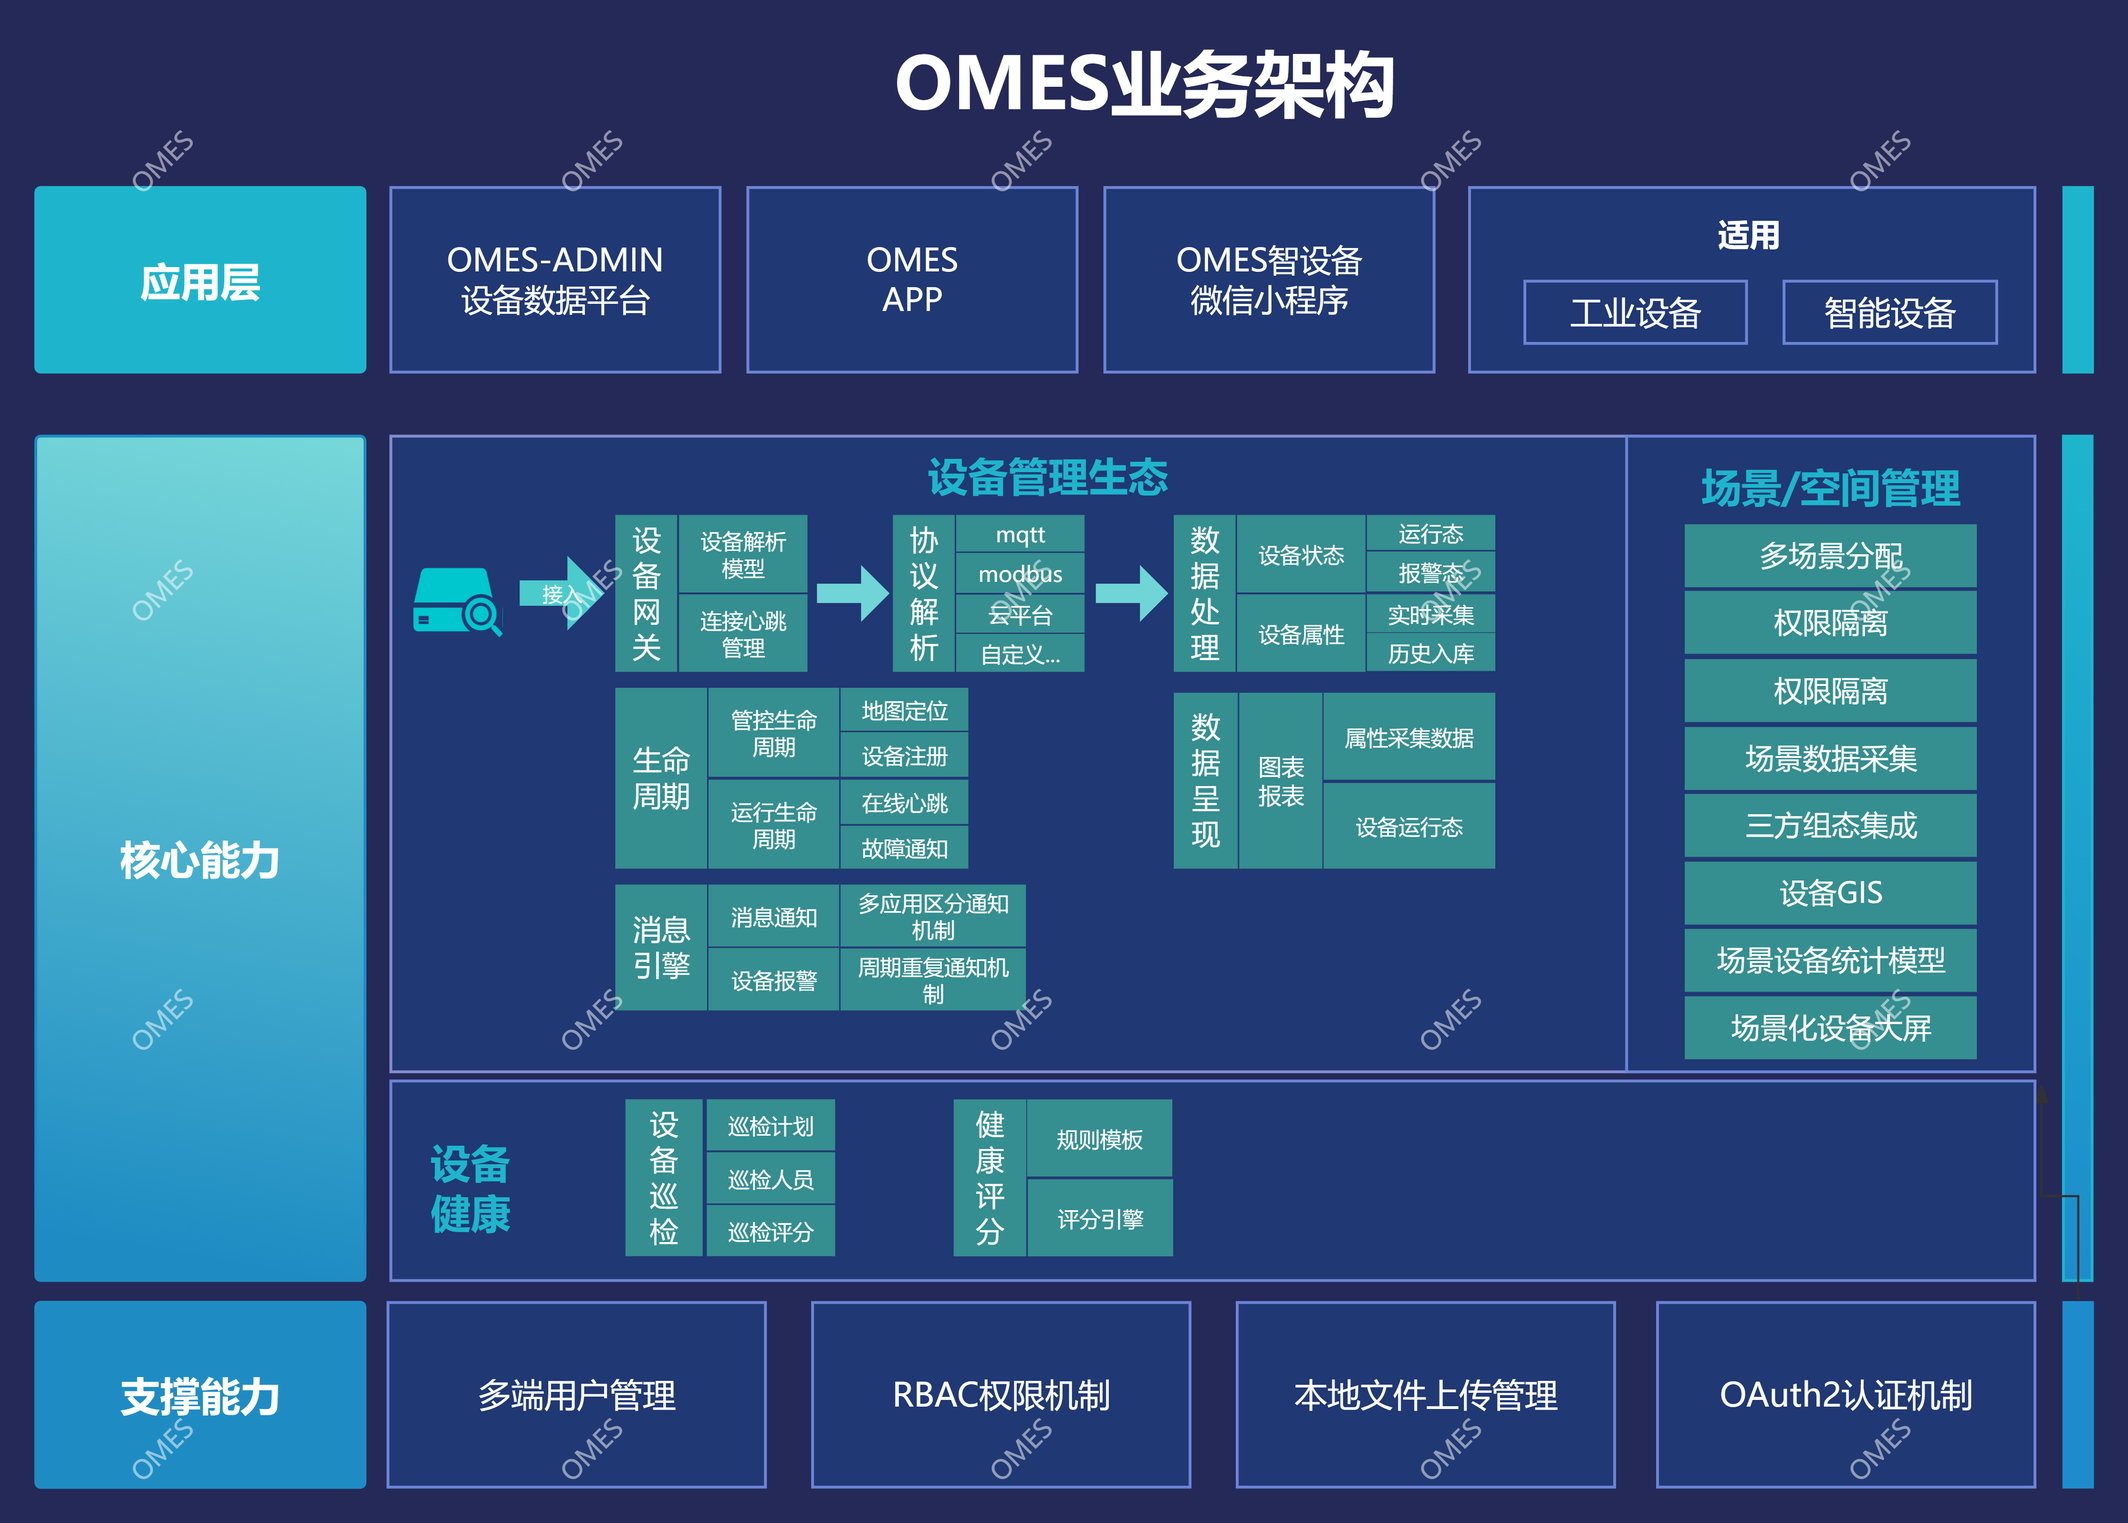
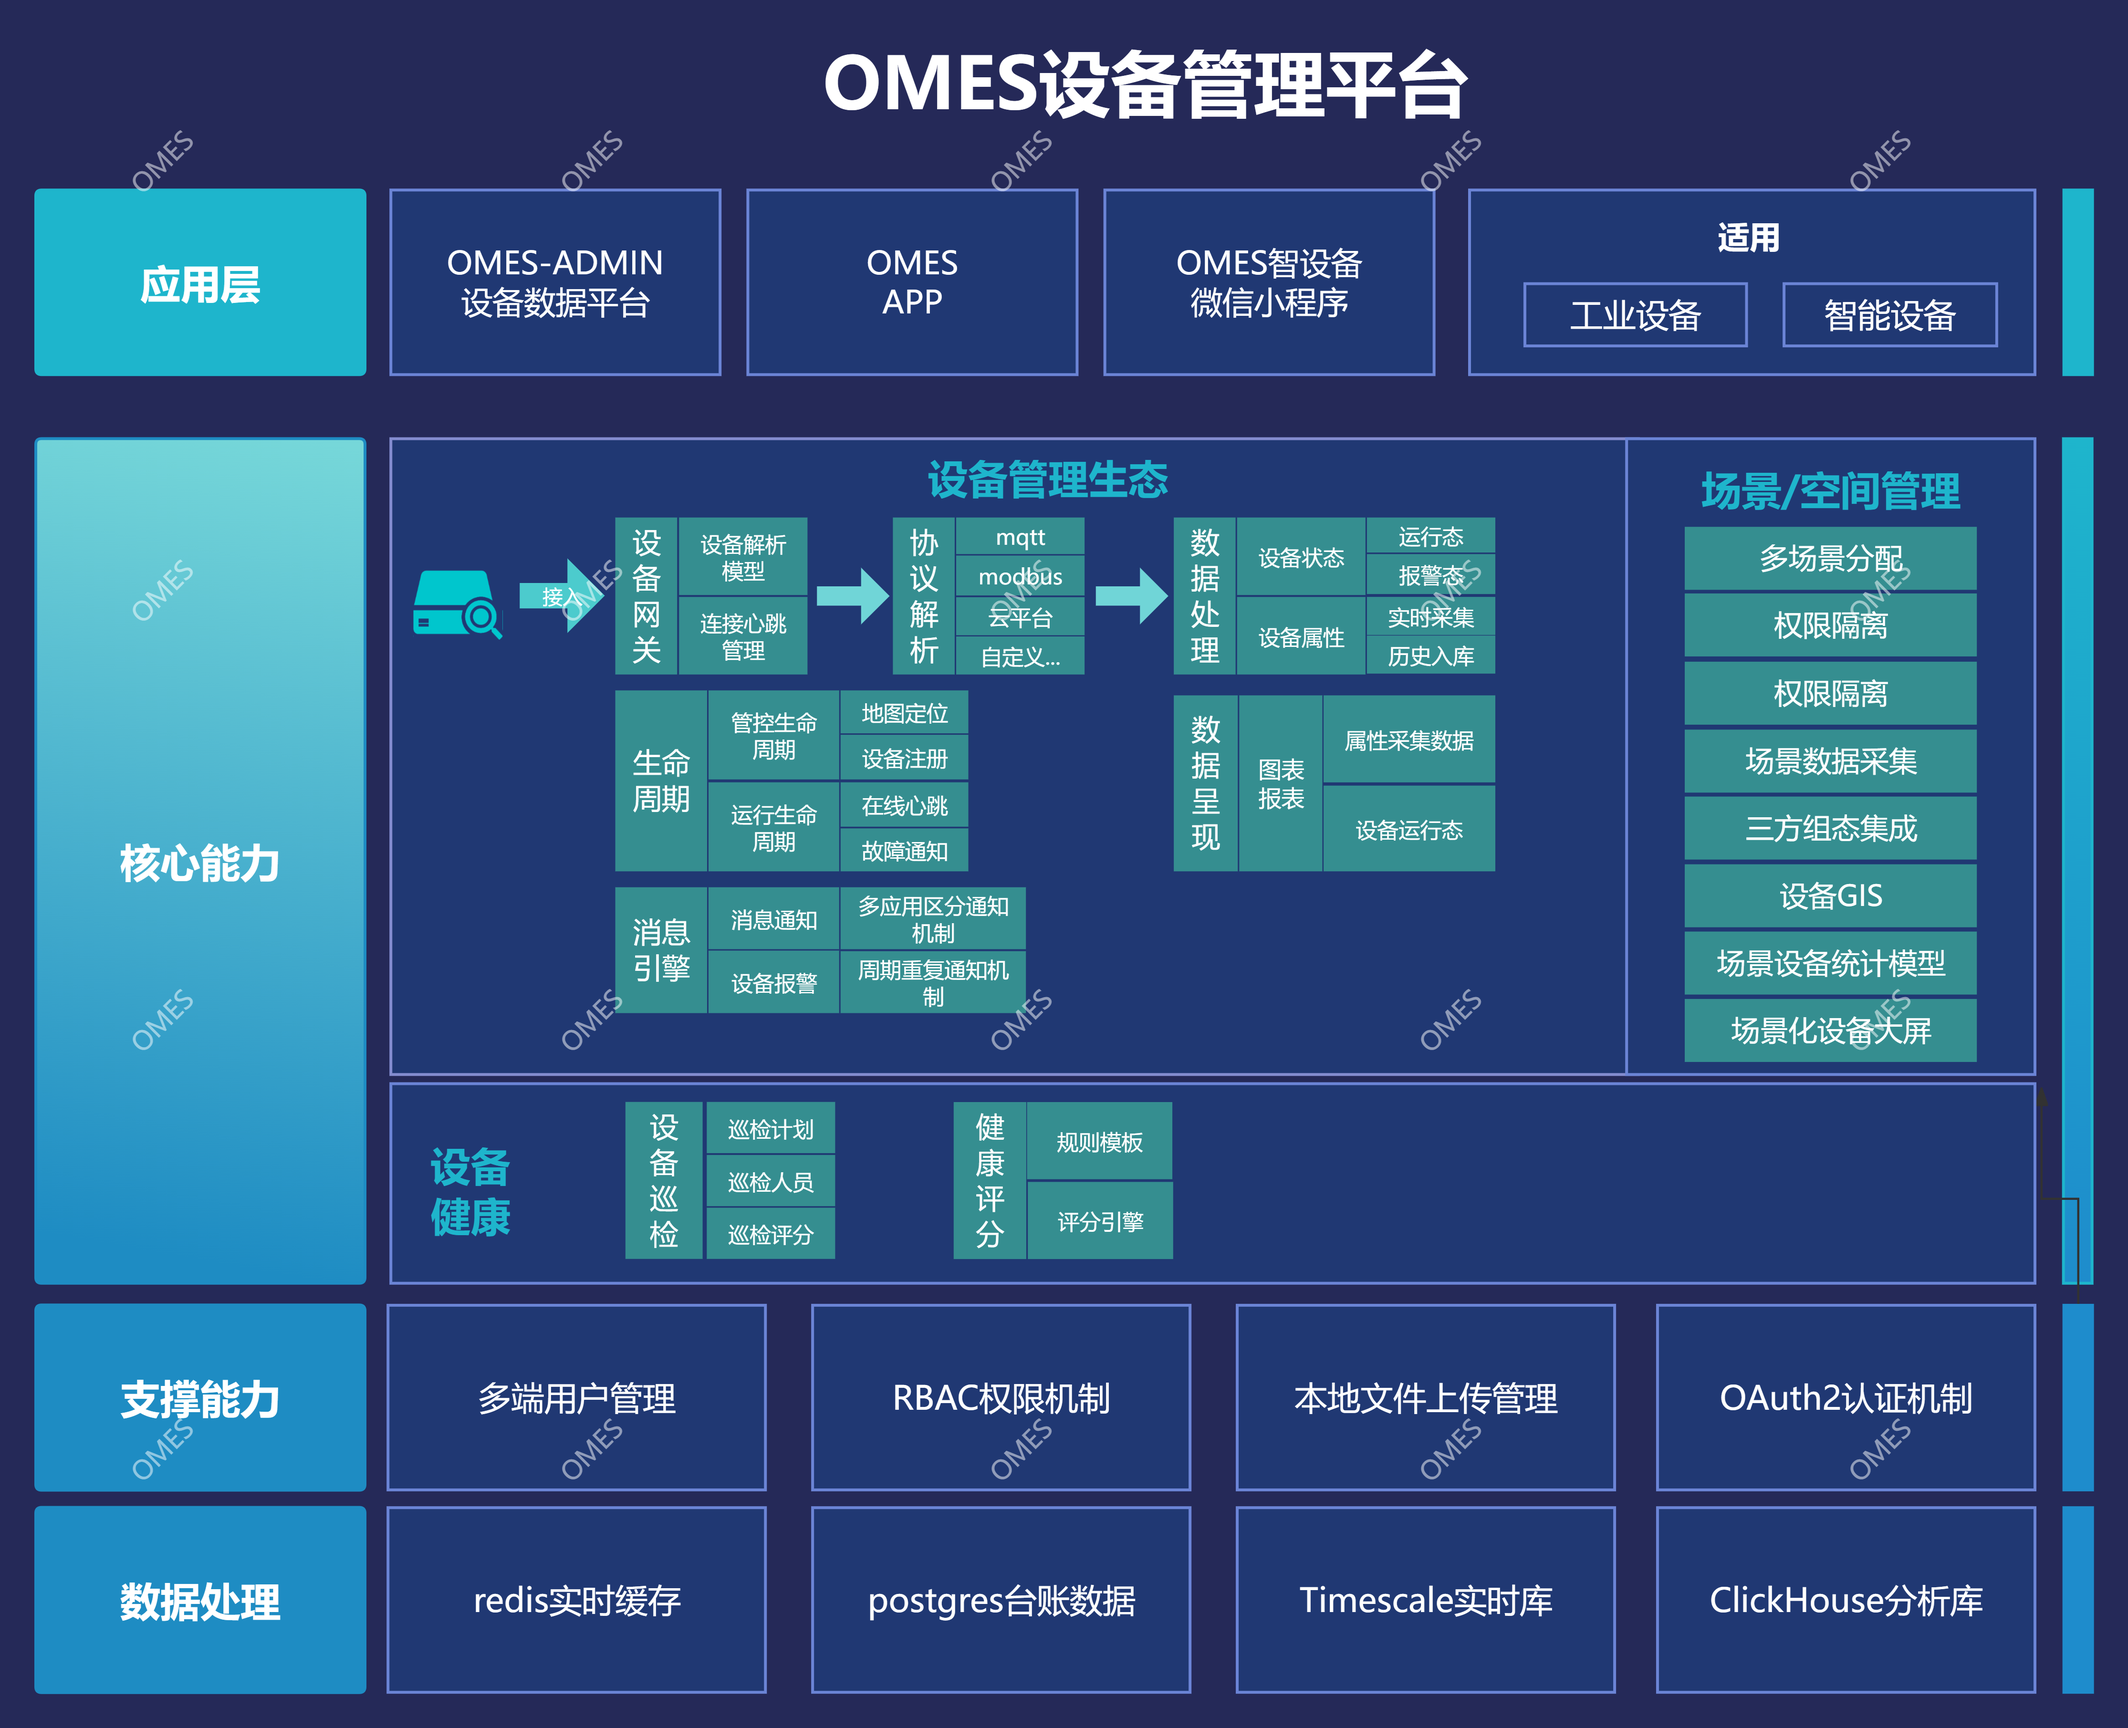
1.加上ai功能 2.适配postgres

diff --git a/omes-portal/src/main/java/com/ourexists/omes/portal/device/cache/RedisCacheValueConverter.java b/omes-portal/src/main/java/com/ourexists/omes/portal/device/cache/RedisCacheValueConverter.java
@@ -1,0 +1,24 @@
+package com.ourexists.omes.portal.device.cache;
+
+import com.fasterxml.jackson.databind.ObjectMapper;
+import org.springframework.stereotype.Component;
+
+@Component
+public class RedisCacheValueConverter {
+
+    private final ObjectMapper objectMapper;
+
+    public RedisCacheValueConverter(ObjectMapper objectMapper) {
+        this.objectMapper = objectMapper;
+    }
+
+    public <T> T convert(Object raw, Class<T> targetType) {
+        if (raw == null) {
+            return null;
+        }
+        if (targetType.isInstance(raw)) {
+            return targetType.cast(raw);
+        }
+        return objectMapper.convertValue(raw, targetType);
+    }
+}
